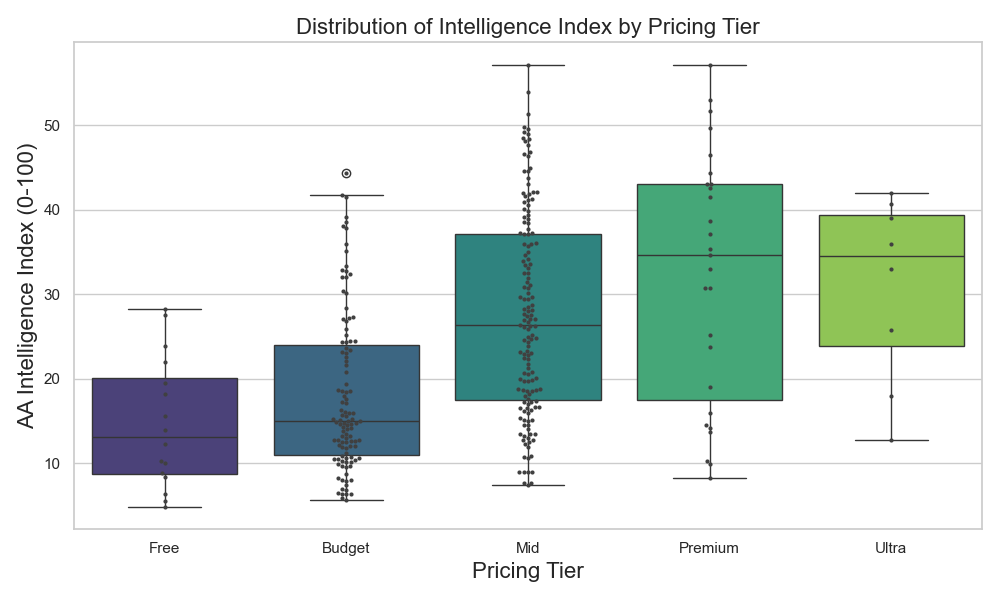
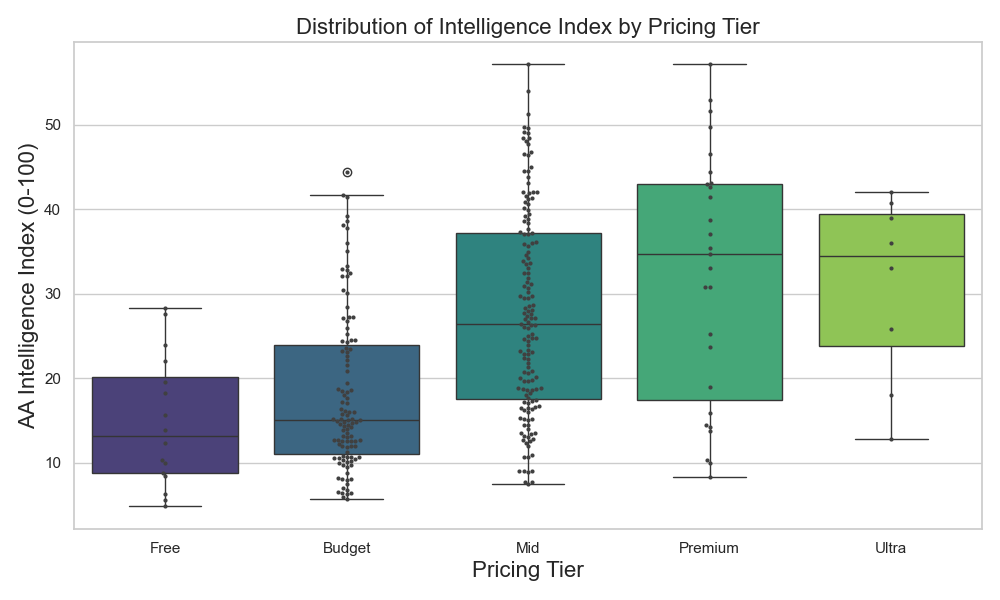
my part done

diff --git a/main.py b/main.py
@@ -1,51 +1,64 @@
 import pandas as pd
+import matplotlib.pyplot as plt
+import seaborn as sns
+import numpy as np
+
+from sklearn.model_selection import train_test_split
+from sklearn.linear_model import Ridge
+from sklearn.metrics import mean_squared_error, r2_score
 
 
 def main():
     df = pd.read_csv("./data.csv")
-    # Task 1
-    # top_10_providers = df["provider"].value_counts().head(10)
-    # print(top_10_providers)
+    tier_order = ["Free", "Budget", "Mid", "Premium", "Ultra"]
 
-    # top_10_providers.plot(kind="bar")
-    # plt.title("Top 10 Providers by Model Count")
-    # plt.xlabel("Provider")
-    # plt.ylabel("Number of Models")
-    # plt.tight_layout(pad=2.0)
-    # plt.savefig("./top_10_providers.png")
+    # Task 1
+    top_10_providers = df["provider"].value_counts().head(10)
+    print("Task 1: Top 10 Providers by Model Count")
+    print(top_10_providers)
+    print("-" * 50)
+
+    top_10_providers.plot(kind="bar")
+    plt.title("Top 10 Providers by Model Count")
+    plt.xlabel("Provider")
+    plt.ylabel("Number of Models")
+    plt.tight_layout(pad=2.0)
+    plt.savefig("./top_10_providers.png")
+    plt.close()
 
     # Task 2
-    # tier_order = ["Free", "Budget", "Mid", "Premium", "Ultra"]
-    # df_filtered = df[df['pricing_tier'].isin(tier_order)]
+    df_filtered = df[df["pricing_tier"].isin(tier_order)]
 
-    # sns.set_theme(style='whitegrid')
-    # plt.figure(figsize=(10, 6))
-    # sns.boxplot(
-    #     data=df_filtered,
-    #     x='pricing_tier',
-    #     y='aa_intelligence_index',
-    #     order=tier_order,
-    #     palette='viridis'
-    # )
-    # plt.title("Distribution of Intelligence Index by Pricing Tier",fontdict={"size": 16})
-    # plt.xlabel("Pricing Tier", fontdict={"size": 16})
-    # plt.ylabel("AA Intelligence Index (0-100)", fontdict={"size": 16})
+    sns.set_theme(style="whitegrid")
+    plt.figure(figsize=(10, 6))
+    sns.boxplot(
+        data=df_filtered,
+        x="pricing_tier",
+        y="aa_intelligence_index",
+        order=tier_order,
+        palette="viridis"
+    )
+    plt.title("Distribution of Intelligence Index by Pricing Tier",
+              fontdict={"size": 16})
+    plt.xlabel("Pricing Tier", fontdict={"size": 16})
+    plt.ylabel("AA Intelligence Index (0-100)", fontdict={"size": 16})
 
-    # sns.swarmplot(
-    #     data=df_filtered,
-    #     x='pricing_tier',
-    #     y='aa_intelligence_index',
-    #     order=tier_order,
-    #     color='.25',
-    #     size=3,
-    # )
-    # plt.tight_layout()
-    # plt.savefig("./intelligence_by_pricing_tier.png")
-    
+    sns.swarmplot(
+        data=df_filtered,
+        x="pricing_tier",
+        y="aa_intelligence_index",
+        order=tier_order,
+        color=".25",
+        size=3,
+    )
+    plt.tight_layout()
+    plt.savefig("./intelligence_by_pricing_tier.png")
+    plt.close()
+
     # Task 3
     benchmarks = {
         "GPQA Diamond": "gpqa_diamond",
-        "Humaniy's Last Exam": "humanitys_last_exam",
+        "Humanity's Last Exam": "humanitys_last_exam",
         "LiveCode Bench": "livecodebench",
         "SciCode": "scicode",
         "MATH-500": "math_500"
@@ -63,6 +76,190 @@ def main():
         else:
             print(f"Col {col_name} not found in DF")
 
+    # Task 4: API cost modeling and forecasting.
+    # Goal: predict blended API cost using intelligence scores and pricing tier.
+    # The target variable is blended_cost_usd_per_1m.
+    cost_df = df[
+        [
+            "model_name",
+            "provider",
+            "pricing_tier",
+            "aa_intelligence_index",
+            "composite_benchmark",
+            "blended_cost_usd_per_1m",
+        ]
+    ].copy()
+
+    cost_df = cost_df.dropna(subset=["blended_cost_usd_per_1m"])
+    cost_df = cost_df[cost_df["pricing_tier"].isin(tier_order)].copy()
+
+    cost_df["aa_intelligence_index"] = cost_df["aa_intelligence_index"].fillna(
+        cost_df["aa_intelligence_index"].median()
+    )
+    cost_df["composite_benchmark"] = cost_df["composite_benchmark"].fillna(
+        cost_df["composite_benchmark"].median()
+    )
+
+    X = cost_df[["aa_intelligence_index",
+                 "composite_benchmark", "pricing_tier"]]
+    y = cost_df["blended_cost_usd_per_1m"]
+
+    # Convert pricing_tier text categories into numeric dummy columns.
+    X = pd.get_dummies(X, columns=["pricing_tier"], drop_first=False)
+
+    # 70% training data, 30% testing data.
+    X_train, X_test, y_train, y_test = train_test_split(
+        X,
+        y,
+        test_size=0.30,
+        random_state=42,
+    )
+
+    # Use log1p so very expensive Ultra models do not dominate the model too much.
+    model = Ridge(alpha=1.0)
+    model.fit(X_train, np.log1p(y_train))
+
+    # Convert predictions back from log scale to normal dollar scale.
+    y_pred = np.expm1(model.predict(X_test))
+
+    mse = mean_squared_error(y_test, y_pred)
+    r2 = r2_score(y_test, y_pred)
+
+    print("Task 4: API Cost Modeling")
+    print(f"Mean Squared Error: {mse:.4f}")
+    print(f"R^2 Score: {r2:.4f}")
+    print("-" * 50)
+
+    # Visualize the fitted model: actual cost vs predicted cost.
+    plt.figure(figsize=(8, 6))
+    plt.scatter(y_test, y_pred, alpha=0.7)
+
+    min_value = min(y_test.min(), y_pred.min())
+    max_value = max(y_test.max(), y_pred.max())
+    plt.plot([min_value, max_value], [min_value, max_value], linestyle="--")
+
+    plt.title("Fitted Cost Model: Actual vs Predicted Blended Cost")
+    plt.xlabel("Actual Blended Cost USD per 1M Tokens")
+    plt.ylabel("Predicted Blended Cost USD per 1M Tokens")
+    plt.tight_layout()
+    plt.savefig("./cost_model_actual_vs_predicted.png", dpi=150)
+    plt.close()
+
+    # Cost projections for the top-3 LLMs by intelligence index.
+    top_3_llms = cost_df.dropna(subset=["aa_intelligence_index"]).nlargest(
+        3,
+        "aa_intelligence_index",
+    )[
+        [
+            "model_name",
+            "provider",
+            "aa_intelligence_index",
+            "pricing_tier",
+            "blended_cost_usd_per_1m",
+        ]
+    ]
+
+    token_volumes_millions = [1, 10, 50, 100]
+    projection_rows = []
+
+    for index, row in top_3_llms.iterrows():
+        for volume in token_volumes_millions:
+            projection_rows.append({
+                "model_name": row["model_name"],
+                "provider": row["provider"],
+                "pricing_tier": row["pricing_tier"],
+                "aa_intelligence_index": row["aa_intelligence_index"],
+                "token_volume_millions": volume,
+                "blended_cost_usd_per_1m": row["blended_cost_usd_per_1m"],
+                "projected_cost_usd": row["blended_cost_usd_per_1m"] * volume,
+            })
+
+    projection_df = pd.DataFrame(projection_rows)
+    projection_df.to_csv("./top3_cost_projection.csv", index=False)
+
+    print("Task 4: Top 3 LLM Cost Projections")
+    print(projection_df.to_string(index=False))
+    print("-" * 50)
+
+    plt.figure(figsize=(10, 6))
+    for model_name, group in projection_df.groupby("model_name"):
+        short_name = model_name[:35] + \
+            "..." if len(model_name) > 35 else model_name
+        plt.plot(
+            group["token_volume_millions"],
+            group["projected_cost_usd"],
+            marker="o",
+            label=short_name,
+        )
+
+    plt.title("Projected API Cost for Top 3 LLMs")
+    plt.xlabel("Monthly Token Volume in Millions")
+    plt.ylabel("Projected Monthly Cost in USD")
+    plt.legend()
+    plt.tight_layout()
+    plt.savefig("./top3_cost_projection.png", dpi=150)
+    plt.close()
+
+    # Task 5: Temporal capability tracking.
+    # Use release_year to chart intelligence progression and price compression from 2023 to 2026.
+    temporal_df = df[
+        ["release_year", "aa_intelligence_index", "blended_cost_usd_per_1m"]
+    ].copy()
+
+    temporal_df = temporal_df.dropna(subset=["release_year"])
+    temporal_df = temporal_df[
+        (temporal_df["release_year"] >= 2023) &
+        (temporal_df["release_year"] <= 2026)
+    ].copy()
+
+    temporal_df["release_year"] = temporal_df["release_year"].astype(int)
+
+    temporal_summary = temporal_df.groupby("release_year").agg(
+        mean_intelligence=("aa_intelligence_index", "mean"),
+        median_intelligence=("aa_intelligence_index", "median"),
+        median_blended_cost=("blended_cost_usd_per_1m", "median"),
+        mean_blended_cost=("blended_cost_usd_per_1m", "mean"),
+        model_count=("aa_intelligence_index", "count"),
+    ).reset_index()
+
+    print("Task 5: Temporal Summary")
+    print(temporal_summary.to_string(index=False))
+    print("-" * 50)
+
+    temporal_summary.to_csv("./temporal_summary.csv", index=False)
+
+    fig, ax1 = plt.subplots(figsize=(10, 6))
+
+    ax1.plot(
+        temporal_summary["release_year"],
+        temporal_summary["mean_intelligence"],
+        marker="o",
+        label="Mean Intelligence Index",
+    )
+    ax1.set_xlabel("Release Year")
+    ax1.set_ylabel("Mean AA Intelligence Index")
+    ax1.set_xticks(temporal_summary["release_year"])
+
+    ax2 = ax1.twinx()
+    ax2.plot(
+        temporal_summary["release_year"],
+        temporal_summary["median_blended_cost"],
+        marker="s",
+        linestyle="--",
+        label="Median Blended Cost",
+    )
+    ax2.set_ylabel("Median Blended Cost USD per 1M Tokens")
+
+    lines_1, labels_1 = ax1.get_legend_handles_labels()
+    lines_2, labels_2 = ax2.get_legend_handles_labels()
+    ax1.legend(lines_1 + lines_2, labels_1 + labels_2, loc="best")
+
+    plt.title("Intelligence Progression and Price Compression by Release Year")
+    plt.tight_layout()
+    plt.savefig("./temporal_intelligence_price.png", dpi=150)
+    plt.close()
+
+    print("Done. All charts and CSV files were saved in this folder.")
 
 
 if __name__ == "__main__":
